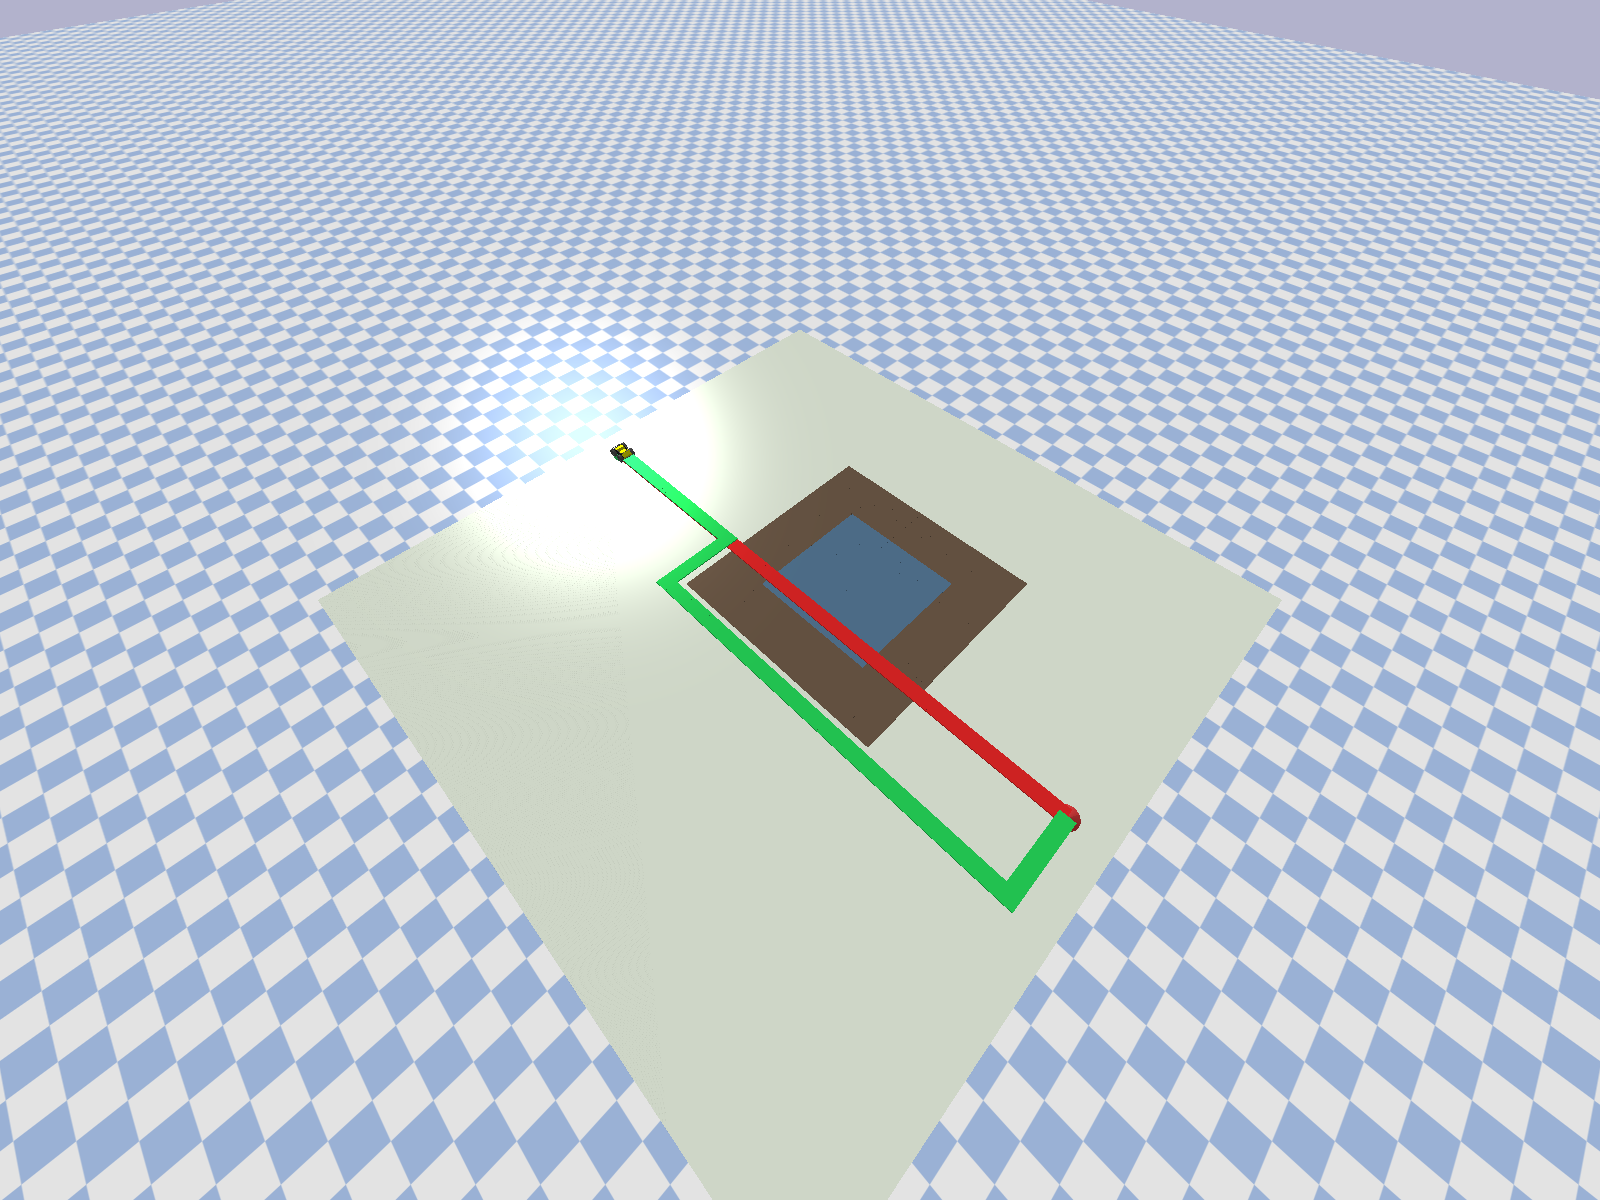
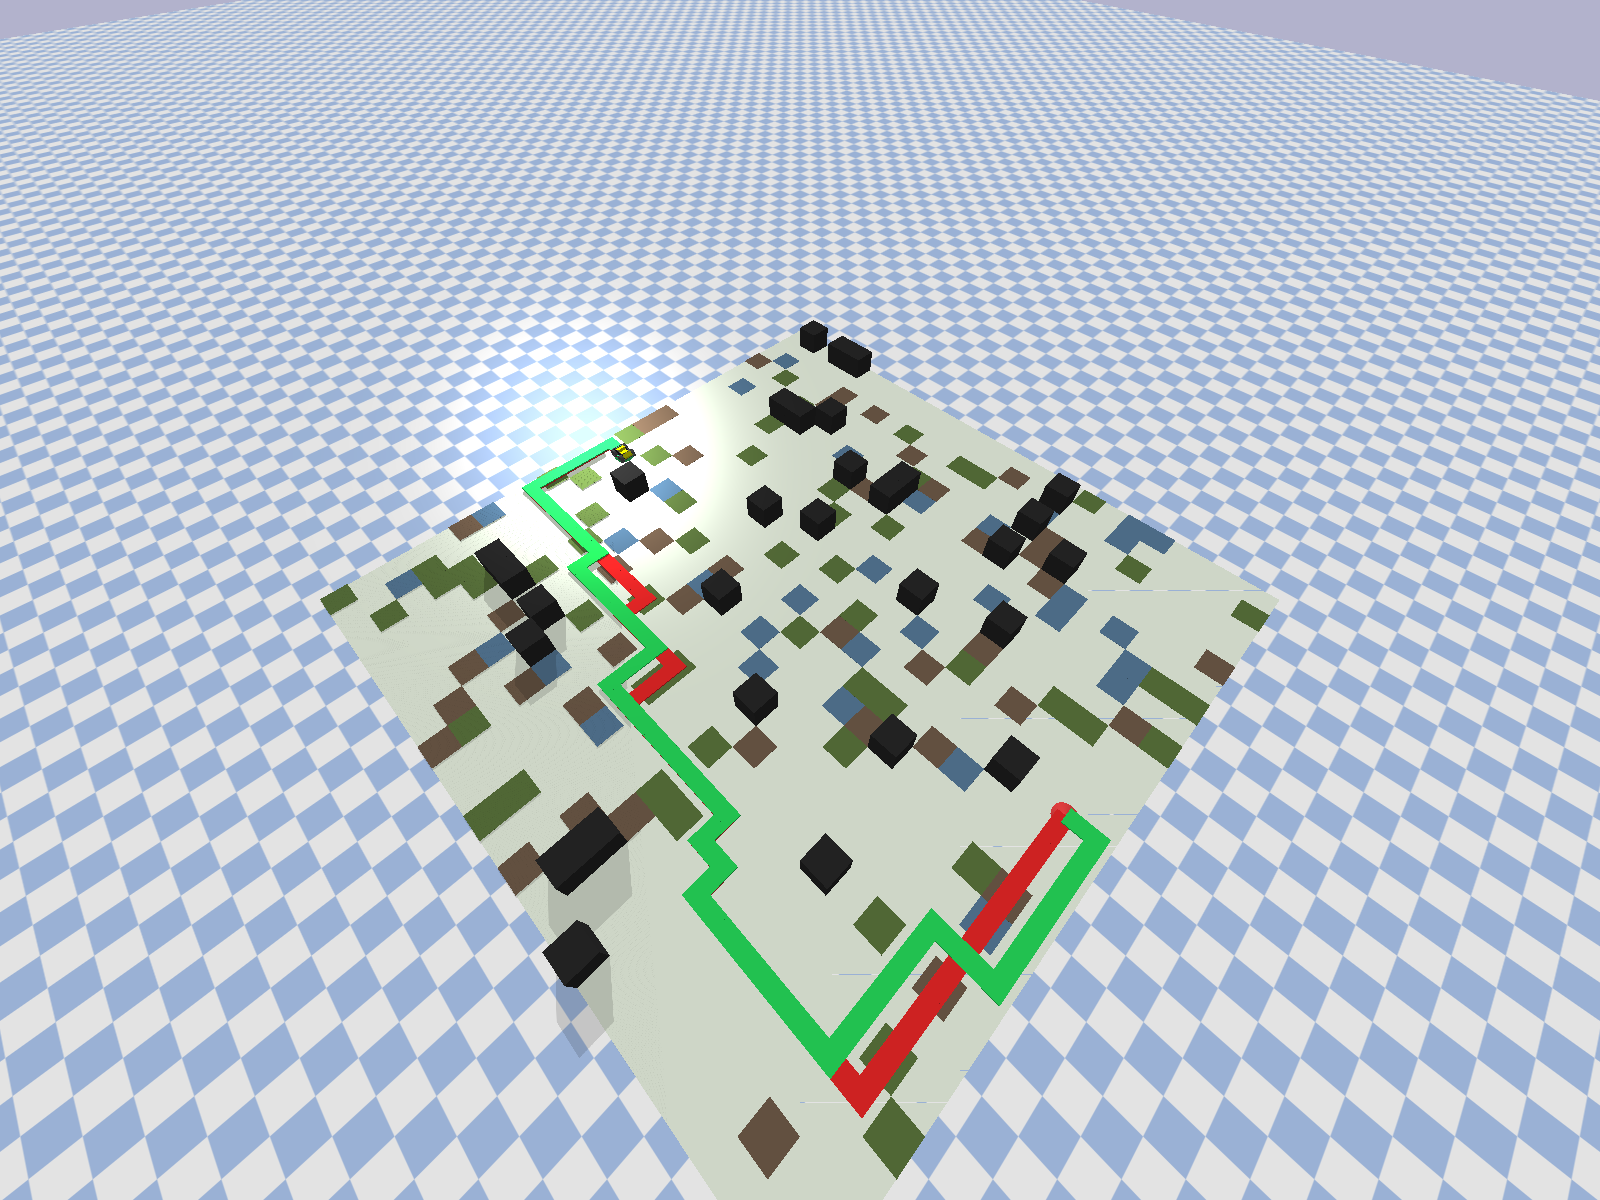
scatter obstacles and bush/mud/water across the whole grid for the pybullet terrain demo instead of one painted patch

Changed region(s): [[0.0, 0.0, 1.0, 1.0], [0.5, 0.6783, 0.5312, 0.74]]

diff --git a/pybullet_main.py b/pybullet_main.py
@@ -12,17 +12,19 @@ the PyBullet physics interface (nav/sim3d/).
     python3 pybullet_main.py --smooth spline      # Catmull-Rom spline (default)
     python3 pybullet_main.py --no-cost-map        # binary obstacles only, no clearance routing
     python3 pybullet_main.py --sensor             # lidar-limited knowledge, replans on discovery
-    python3 pybullet_main.py --terrain            # mud/water terrain patch, naive vs cost-aware routing
+    python3 pybullet_main.py --terrain            # scattered forest terrain, naive vs cost-aware routing
     python3 pybullet_main.py --headless           # DIRECT mode, no GUI window, for automated runs
 """
 import argparse
+import random
 import time
 
 import pybullet as p
 
 from nav.algorithms import find_path, path_cost
-from nav.config import CONFIRMATION_THRESHOLD, TERRAIN_GRASS, TERRAIN_MUD, TERRAIN_WATER
+from nav.config import CONFIRMATION_THRESHOLD, TERRAIN_BUSH, TERRAIN_GRASS, TERRAIN_MUD, TERRAIN_WATER
 from nav.grid import Grid
+from nav.scenario_helpers import scatter_obstacles, scatter_terrain
 from nav.sensor import KnownGrid
 from nav.sim3d.coords import grid_to_world, world_to_grid, WORLD_CELL_SIZE
 from nav.sim3d.hud import Hud
@@ -54,6 +56,23 @@ SCATTERED_OBSTACLES = [
     (11, 13, 13, 14),
     (9, 10, 19, 20),
 ]
+# Forest-floor scattering for the terrain demo (see build_terrain_grid)
+# -- each layer gets its own Random(seed) so tuning one density doesn't
+# reshuffle the others. Water is kept sparsest since it's both the most
+# expensive terrain (see TERRAIN_COST) and the most visually dominant
+# color; obstacles are kept sparser than pygame's own scatter_obstacles
+# scenarios (0.08-0.10) since a 3D box reads as "more obstacle" per cell
+# than a flat 2D square does at this camera distance.
+# Picked (out of a search over nearby seeds) for a naive-vs-aware
+# comparison that's actually dramatic once terrain is scattered instead
+# of one solid block: a bad seed can land naive and aware on nearly the
+# same route by chance, which is a fine outcome for the planner but a
+# poor one for a screenshot meant to show they differ.
+FOREST_SEED = 20260769
+FOREST_OBSTACLE_DENSITY = 0.05
+FOREST_BUSH_DENSITY = 0.12
+FOREST_MUD_DENSITY = 0.08
+FOREST_WATER_DENSITY = 0.05
 # How often the HUD text / debug-parameter sliders actually get read and
 # redrawn -- doing it every physics step (240/s) would spam PyBullet's
 # debug-item pipeline for no visible benefit; a human can't perceive HUD
@@ -114,25 +133,29 @@ def build_scattered_grid():
 
 
 def build_terrain_grid():
-    """No obstacles at all -- a mud-and-water patch (see
-    nav/config.py: TERRAIN_MUD/TERRAIN_WATER/TERRAIN_COST) straddling
-    the direct route between START and GOAL, same footprint and same
-    row-12 asymmetry build_demo_grid's wall uses (2 rows above START/GOAL's
-    row, 6 below) so the terrain-aware detour is the same clean
-    single-edge shape as the binary-obstacle one, just driven by cost
-    instead of impassability. Mud rings the whole patch; water -- costing
-    even more per step (see TERRAIN_COST) -- fills a smaller core, so the
-    two terrain types are both visible and both actually matter to the
-    routing decision, not just the outer one."""
+    """A varied forest floor, not one painted patch: scattered trees/
+    rocks (obstacles) and three different terrain types -- bush, mud,
+    water, each costing progressively more per step (see nav/config.py:
+    TERRAIN_COST) -- spread across the whole grid, mirroring how
+    scatter_obstacles/scatter_terrain already build pygame's own
+    scenario_open.py/scenario_costmap.py rather than one hand-placed
+    block. The question this demo asks is "does terrain-aware routing
+    still pay off once the whole map is uneven," not just "does it
+    detour around one bad patch."
+
+    Start/goal are placed first -- scatter_obstacles and scatter_terrain
+    both already skip whatever cell a start/goal occupies (via
+    Grid.toggle_obstacle/paint_terrain's own guards), so placing them
+    first just means neither scatter pass ever has a chance to land on
+    top of one."""
     grid = Grid()
-    for row in range(10, 19):
-        for col in range(9, 18):
-            grid.paint_terrain(row, col, TERRAIN_MUD)
-    for row in range(12, 17):
-        for col in range(11, 16):
-            grid.paint_terrain(row, col, TERRAIN_WATER)
     grid.place_start(*START)
     grid.place_goal(*GOAL)
+
+    scatter_obstacles(grid, random.Random(FOREST_SEED), FOREST_OBSTACLE_DENSITY)
+    scatter_terrain(grid, random.Random(FOREST_SEED + 1), TERRAIN_BUSH, FOREST_BUSH_DENSITY)
+    scatter_terrain(grid, random.Random(FOREST_SEED + 2), TERRAIN_MUD, FOREST_MUD_DENSITY)
+    scatter_terrain(grid, random.Random(FOREST_SEED + 3), TERRAIN_WATER, FOREST_WATER_DENSITY)
     return grid
 
 
@@ -170,9 +193,9 @@ def parse_args():
                               f"{CONFIRMATION_THRESHOLD}+ repeated detections before trusting a cell "
                               "enough to replan on")
     parser.add_argument("--terrain", action="store_true",
-                         help="mud/water terrain patch instead of a hard obstacle -- compares a route "
-                              "that ignores terrain cost against one that routes around it "
-                              "(see nav/grid.py: paint_terrain, TERRAIN_COST)")
+                         help="scattered forest floor (bush/mud/water and obstacles) instead of a single "
+                              "hard-obstacle wall -- compares a route that ignores terrain cost against "
+                              "one that routes around it (see nav/grid.py: paint_terrain, TERRAIN_COST)")
     parser.add_argument("--headless", action="store_true")
     parser.add_argument("--max-seconds", type=float, default=60.0,
                          help="safety cap so a headless/automated run can't hang forever")
@@ -253,22 +276,30 @@ def run_static_demo(args, grid, gui):
 
 
 def run_terrain_demo(args, grid, gui):
-    """Plan the terrain crossing twice -- once blind to terrain cost
-    (temporarily flattening every cell to TERRAIN_GRASS so the search
-    just finds the shortest step-count route, the same 4-directional
-    straight line a hard-obstacle-only search would find here since
-    nothing is actually impassable), once respecting it -- and draw
-    both, the same red-vs-green comparison run_elevation_demo used to
-    draw for the hill crossing this demo replaces.
+    """Plan the forest crossing twice -- once blind to terrain cost
+    (temporarily flattening every cell to TERRAIN_GRASS, so the search
+    still routes around every real obstacle -- trees/rocks stay
+    impassable in both searches -- but no longer prefers grass over
+    bush/mud/water among the cells that are open), once respecting it
+    -- and draw both, the same red-vs-green comparison run_elevation_demo
+    used to draw for the hill crossing this demo replaces.
 
-    Both routes are physically flat ground (mud and water are cost
-    penalties, not obstacles or elevation), so unlike the old elevation
-    demo there's no drivability reason to only drive one of them --
-    the cost-aware route is driven because it's the one the demo is
-    actually about, not because the naive one is unsafe."""
+    Both routes are physically flat ground (bush/mud/water are cost
+    penalties, not elevation), so unlike the old elevation demo there's
+    no drivability reason to only drive one of them -- the cost-aware
+    route is driven because it's the one the demo is actually about,
+    not because the naive one is unsafe."""
+    # cost_map_enabled=True for *both* searches, not just a naive/aware
+    # toggle -- obstacles are real, scattered geometry now (see
+    # build_terrain_grid), not the empty flat ground this demo used to
+    # have, so both routes need real clearance from them or the driven
+    # spline can round a corner close enough to actually clip an
+    # obstacle's collision box (confirmed: the husky reliably got stuck
+    # against one without this). This only adds clearance -- it doesn't
+    # touch what's actually being compared (terrain cost on vs. off).
     real_terrain = [row[:] for row in grid.terrain]
     grid.terrain = [[TERRAIN_GRASS for _ in range(grid.size)] for _ in range(grid.size)]
-    grid.cost_map_enabled = False
+    grid.cost_map_enabled = True
     grid.refresh_cost_map()
     naive_path, _, reason, _ = find_path(grid, "astar", grid.start, grid.goal)
     if naive_path is None:
@@ -297,8 +328,8 @@ def run_terrain_demo(args, grid, gui):
     aware_live = LivePath(TERRAIN_AWARE_PATH_COLOR, gui, SIM_HZ, z=0.14)
     naive_live.set_path(to_world_xy(naive_path), 0)
     aware_live.set_path(to_world_xy(aware_path), 0)
-    print(f"terrain-naive path (straight through mud/water): {len(naive_path)} cells, cost {naive_cost:.2f}")
-    print(f"terrain-aware path (routes around it):           {len(aware_path)} cells, cost {aware_cost:.2f} "
+    print(f"terrain-naive path (ignores bush/mud/water cost): {len(naive_path)} cells, cost {naive_cost:.2f}")
+    print(f"terrain-aware path (routes around costly terrain): {len(aware_path)} cells, cost {aware_cost:.2f} "
           f"(drawn in green, red = terrain-naive)")
 
     drive_waypoints = build_drive_waypoints(aware_path, args.smooth)
@@ -498,6 +529,7 @@ def main():
 
     if args.terrain:
         grid = build_terrain_grid()
+        build_obstacles(grid)
         mark_cell(*START, color=START_COLOR)
         mark_cell(*GOAL, color=GOAL_COLOR)
         run_terrain_demo(args, grid, gui)

diff --git a/screenshots/pybullet/capture.py b/screenshots/pybullet/capture.py
@@ -136,18 +136,23 @@ def capture_binary_vs_costmap():
 
 
 def capture_terrain():
-    """Scenario 2: build_terrain_grid's mud/water patch, terrain-naive
-    vs. terrain-aware paths. Legend elements: Paths (terrain-aware path,
-    naive/binary baseline), Terrain (grass/bush/mud/water -- mud and
-    water both appear here), Markers (start, goal)."""
+    """Scenario 2: build_terrain_grid's scattered forest floor
+    (obstacles plus bush/mud/water terrain), terrain-naive vs.
+    terrain-aware paths. Legend elements: Paths (terrain-aware path,
+    naive/binary baseline), Terrain (grass/bush/mud/water), Obstacles &
+    Cost (obstacle), Markers (start, goal)."""
     connect(gui=True)
     grid = pm.build_terrain_grid()
+    build_obstacles(grid)
     mark_cell(*pm.START, color=START_COLOR)
     mark_cell(*pm.GOAL, color=GOAL_COLOR)
 
+    # cost_map_enabled=True -- matches pybullet_main.py's run_terrain_demo;
+    # obstacles are real scattered geometry now, so both paths need
+    # clearance from them or the driven route can clip one.
     real_terrain = [row[:] for row in grid.terrain]
     grid.terrain = [[TERRAIN_GRASS for _ in range(grid.size)] for _ in range(grid.size)]
-    grid.cost_map_enabled = False
+    grid.cost_map_enabled = True
     grid.refresh_cost_map()
     naive_path, _, reason, _ = find_path(grid, "astar", grid.start, grid.goal)
     assert naive_path is not None, reason

diff --git a/nav/scenario_helpers.py b/nav/scenario_helpers.py
@@ -17,6 +17,21 @@ def scatter_obstacles(grid, rng, density):
                 grid.toggle_obstacle(row, col)
 
 
+def scatter_terrain(grid, rng, terrain_type, density):
+    """Randomly paint free cells with `terrain_type` at roughly `density`
+    fraction of the grid -- the terrain analogue of scatter_obstacles.
+    Skips start/goal/obstacle cells automatically (paint_terrain already
+    no-ops on those). Calling this more than once with different
+    terrain_type/rng pairs layers each type independently -- a cell a
+    later call repaints simply ends up as that later type, the same way
+    a real forest floor has mud patches inside bushy areas rather than
+    every terrain type claiming its own exclusive territory."""
+    for row in range(grid.size):
+        for col in range(grid.size):
+            if grid.is_free(row, col) and rng.random() < density:
+                grid.paint_terrain(row, col, terrain_type)
+
+
 def find_dead_ends(grid):
     """Free cells with exactly one free cardinal neighbor -- the tips of
     dead-end branches in a carved maze."""
